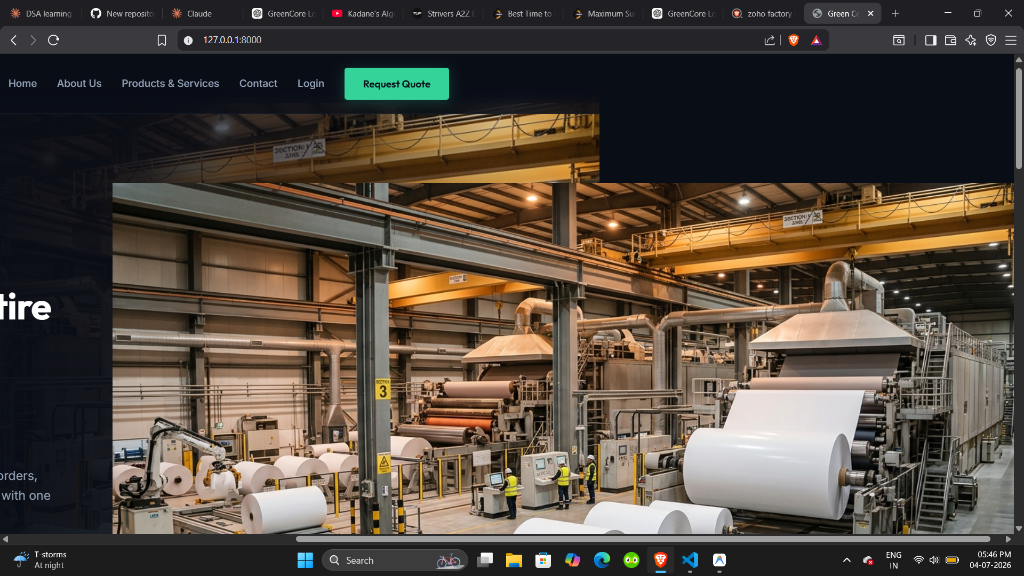
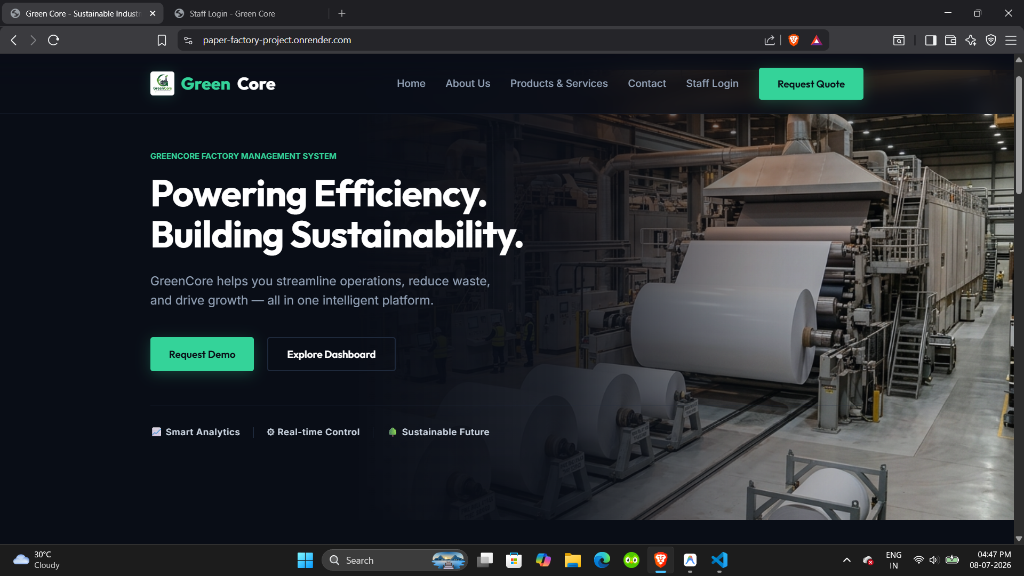
Update README.md with live link and new UI screenshots

diff --git a/README.md b/README.md
@@ -13,33 +13,47 @@ GreenCore is a full-stack, secure, role-based internal web application designed 
 
 ## 🎨 User Interface Showcase
 
-### 1. Staff Login Gateway
-The landing page redirects all visitors to a secure login gateway. Django handles authentication checks and routes admins to the root control panel, and staff to the production dashboard.
-
-![Login Screen](screenshots/login.png)
-
----
-
-### 2. Main Analytics & Pipeline Dashboard
-Features interactive stats counters, quotation review tables (with instant approve/reject actions), and a live visual representation of active manufacturing orders.
-
-![Dashboard Home](screenshots/dashboard.png)
-
----
-
-### 3. Public Landing & Material Configurator
-A dark Obsidian & Mint themed interface featuring responsive layouts, and slide-in hover animations.
+### 1. Public Homepage
+Features a responsive banner displaying your eco-industrial manufacturing facilities, tagline metrics, and navigation links.
 
 ![Homepage](screenshots/homepage.png)
+
+---
+
+### 2. Products & Services Directory
+Loads paper grades, category tags, GSM weights, and deckle widths dynamically from the PostgreSQL/SQLite database.
+
+![Products Catalog](screenshots/services.png)
+
+---
+
+### 3. Quotation Request Portal
+Allows packaging companies to submit material requirements, tonnage volume, and delivery specs directly to the production queue.
+
+![Quotation Request](screenshots/quotes.png)
+
+---
+
+### 4. Staff Analytics & Production Dashboard
+Provides staff with pipeline metrics, database-backed Chart.js visualizations, quote approval tables, and active order stages tracker.
+
+![Dashboard](screenshots/dashboard.png)
+
+---
+
+### 5. Staff Login Portal
+Secure auth gate allowing staff to authenticate and automatically route based on their access permissions.
+
+![Login Screen](screenshots/login.png)
 
 ---
 
 ## 🚀 Key Features
 
 * **🔐 Role-Based Access Control**:
-  * Any unauthenticated user visiting the root URL `/` is automatically redirected to `/accounts/login/`.
-  * **Superusers (Admins)** are redirected straight to the Django `/admin/` workspace.
-  * **Staff Members** are redirected to the `/dashboard/` workflow workspace.
+  * Public homepage `/` is open to all visitors, allowing them to browse products and request quotes.
+  * **Superusers (Admins)** logging in are automatically routed to the Django `/admin/` workspace.
+  * **Staff Members** logging in are automatically routed to the `/dashboard/` workspace.
 * **⚙️ Active Order Pipeline State Machine**:
   * Allows staff to advance orders sequentially: `Received ➔ Production ➔ Dispatched ➔ Delivered`.
   * Generates shipping tracking numbers automatically upon dispatch.